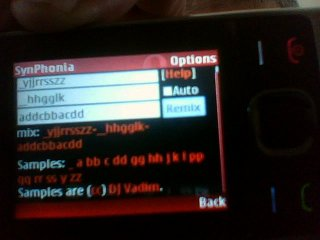
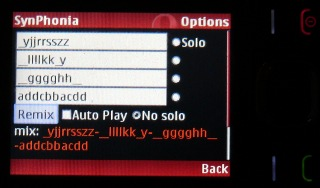
Solo buttons and cosmetics
Not so sure how useful the solo buttons are, but Maya insisted.
Same goes for AutoPlay (This one was Greeeni :) ).
Anyway - updated the help and phone-shot accordingly.

diff --git a/index.html b/index.html
@@ -14,8 +14,8 @@
   <div style="max-width:500px">
     <h3>SynPhonia - a cellular friendly web-based musical toy</h3>
 
-    <p>To start playing music right away, go <b><a href=
-    "synphonia.py?c0=_yjjrrsszz&amp;c1=__hhgglk&amp;c2=addcbbacdd">here</a></b>.<br />
+    <p>To start playing music right away, <b>just go <a href=
+    "synphonia.py?c0=_yjjrrsszz&c1=__llllkk_y&c2=__gggghh__&c3=addcbbacdd&s=-1">here</a>.</b><br />
 
     Musician: Want to have such a toy with your own sounds? See
     <a target="_blank" href=
@@ -30,15 +30,17 @@
     twice longer to play than <i>a</i>). In other words: each
     letter represents a musicar bar.<br />
     The special sound <i>_</i> represents silence.<br />
-    The <i>Auto</i> checkbox (auto play) can save you the extra click
+    The <i>AutoPlay</i> checkbox can save you the extra click
     on the mix's player button (a matter of personal taste).</p>
-
+    <p>If you want to hear how a track sounds by itself, you can select
+    the <i>Solo</i> radio button to the right of it, and remix.
+    To go back to the full mix, click on <i>No solo</i>.
     <p><img width="240" align="left" hspace="8" src=
     "phone-shot.jpg" alt="SynPhonia on a phone. Yah." /> You can
     also try <b>j.mp/synpho</b> from your phone. The only
     difference is that on not-so-smart-phones (like the one in the
     picture) you won't see the cute little player buttons (this
-    also means the <i>Auto</i> checkbox won't do anything), but you
+    also means the <i>AutoPlay</i> checkbox won't do anything), but you
     can still click on the links to the mix and the samples, and if
     your phone can play mp3, you can party.</p>
 

diff --git a/synphonia.py b/synphonia.py
@@ -33,7 +33,7 @@ MP3_CACHE_TRACKS=100
 MAX_BARS=16 # against DoS
 ARTIST='DJ Vadim (remixed by SynPhonia user)'
 ALBUM='Watch This Sound mixes'
-EMPTY_MIX_HTML="""Empty or invalid mix. Try an <a href="?c0=_yjjrrsszz&c1=__llllkk_y&c2=__gggghh__&c3=addcbbacdd">example</a>"""
+EMPTY_MIX_HTML="""Empty or invalid mix. Try an <a href="?c0=_yjjrrsszz&c1=__llllkk_y&c2=__gggghh__&c3=addcbbacdd&s=-1">example</a>"""
 CREDITS="""Samples are (<a target="_blank" href="http://creativecommons.org/licenses/by-nc/3.0/us/">cc</a>)
 <a target="_blank" href="http://ccmixter.org/bbe">DJ Vadim</a>."""
 DEBUG_TO_WEB=True # Should be False ;)
@@ -74,19 +74,32 @@ PAGE_TEMPLATE="""<!DOCTYPE html PUBLIC "-//W3C//DTD XHTML 1.0 Strict//EN" "http:
   {mix}
   <hr/>
   Samples: {samples}<br/>
-  <small>{credits}</small>
+  {credits}
+  [<b><a target="_blank" href="index.html">Help</a></b>]
  </body>
 </html>
 """
+# The s="-1" kludge: we don't want s="" because some browsers
+# don't select the radio button in that case, so any non-numeric s
+# is considered "no solo", and we use -1 because it sorta makes sense :)
+# "" would still work (e.g. if you skip s= in url) since it's non-numeric.
 FORM_TEMPLATE="""<form method="GET" action="{action}"> 
-   <input name="c0" value="{0}"><br/>
-   <input name="c1" value="{1}"><br/> 
-   <input name="c2" value="{2}"><br/>
-   <input name="c3" value="{3}"><br/>
-   <input type="submit" value="Remix"/>
-   <small><input type="checkbox" name="autoplay"{autoplay_checked}/>AutoPlay</small>
-   [<b><a target="_blank" href="index.html">Help</a></b></small>]</small>
-  </form> 
+       <input name="c0" value="{0}">
+       <input type="radio" name="s" value="0"{solo0}/>Solo
+       <br/>
+       <input name="c1" value="{1}">
+       <input type="radio" name="s" value="1"{solo1}/>
+       <br/>
+       <input name="c2" value="{2}">
+       <input type="radio" name="s" value="2"{solo2}/>
+       <br/>
+       <input name="c3" value="{3}">
+       <input type="radio" name="s" value="3"{solo3}/>
+       <br/>
+       <input type="submit" value="Remix"/>
+       <small><input type="checkbox" name="autoplay"{autoplay_checked}/>Auto Play</small>
+       <input type="radio" name="s" value="-1"{nosolo}/>No solo
+</form> 
 """
 
 TRACK_TEMPLATE="""<script language="javascript">playerbutton('{path}','{track}','{flash_args}')</script>""" + \
@@ -199,19 +212,27 @@ def make_channel(samples):
             return None,["Concatenation error ({0}): {1}".format(basename,err)]
     return filepath,basename
 
-def make_mix(channel_strings):
+def make_mix(channel_strings,solo):
     channel_lists=map(parse_channel,channel_strings)
     parsed_values=[''.join(l) for l in channel_lists]
-    channel_names=filter(None,parsed_values)
-    if not channel_names:
+    # the prefix actual_ means only solo track (or all if no solo)
+    if solo.isdigit():
+        isolo=int(solo)%4 # avoid IndexError if e.g. s=42 in url :)
+        actual_channel_lists=[channel_lists[isolo]]
+        actual_parsed_values=[parsed_values[isolo]]
+    else:
+        actual_channel_lists=channel_lists
+        actual_parsed_values=parsed_values
+    actual_channel_names=filter(None,actual_parsed_values)
+    if not actual_channel_names:
         return None,parsed_values,[EMPTY_MIX_HTML]
-    basename='-'.join(channel_names)
+    basename='-'.join(actual_channel_names)
     filepath='{0}/{1}.mp3'.format(MIX_PATH,basename)
     errors=[]
     if not touch_if_exists(filepath): # Not in cache? generate.
         wavname=basename+'.wav'
         wavpath='{0}/{1}'.format(WAV_MIX_PATH,wavname)
-        channel_pairs=map(make_channel,filter(None,channel_lists))
+        channel_pairs=map(make_channel,filter(None,actual_channel_lists))
         errors=[p[1] for p in channel_pairs if not p[0]]
         channels=[p[0] for p in channel_pairs if p[0]]
         if not channels:
@@ -244,8 +265,14 @@ def do_cgi():
     fields = cgi.FieldStorage()
     channels=[fields.getvalue('c{0}'.format(i),'') for i in range(4)]
     autoplay=fields.getvalue('autoplay','')
-    track,parsed_values,errors=make_mix(channels)
+    solo=fields.getvalue('s','')
+    track,parsed_values,errors=make_mix(channels,solo)
     form_html=FORM_TEMPLATE.format(*parsed_values,action=script_name,
+        solo0 = solo=='0' and ' checked="checked"' or '',
+        solo1 = solo=='1' and ' checked="checked"' or '',
+        solo2 = solo=='2' and ' checked="checked"' or '',
+        solo3 = solo=='3' and ' checked="checked"' or '',
+        nosolo = not solo.isdigit() and ' checked="checked"' or '', # see s="-1" kludge above
         autoplay_checked=autoplay and ' checked="checked"' or '')
     errors_html=errors and """<div class="errors">{0}</div>""".format('<br/>\n'.join(errors)) or ""
     mix_html=track and  """<div class="mix">mix: {0}</div>""".format(
@@ -261,8 +288,9 @@ def do_cgi():
 def init_samples():
     """When you add new samples to WAV_SAMPLE_PATH, you should:
        1) Add their respective mp3 files to SAMPLE_PATH
-       2) Run init_samples() to id3-tag thwem andcreate their
-          xspf files for the flash player"""
+       2) Run init_samples() to id3-tag them and create their
+          xspf files for the flash player
+See README file for details"""
     for s in SAMPLE_NAMES:
         write_id3('{0}/{1}.mp3'.format(SAMPLE_PATH,s),s)
         make_xspf(s,SAMPLE_PATH,SAMPLE_URL)
